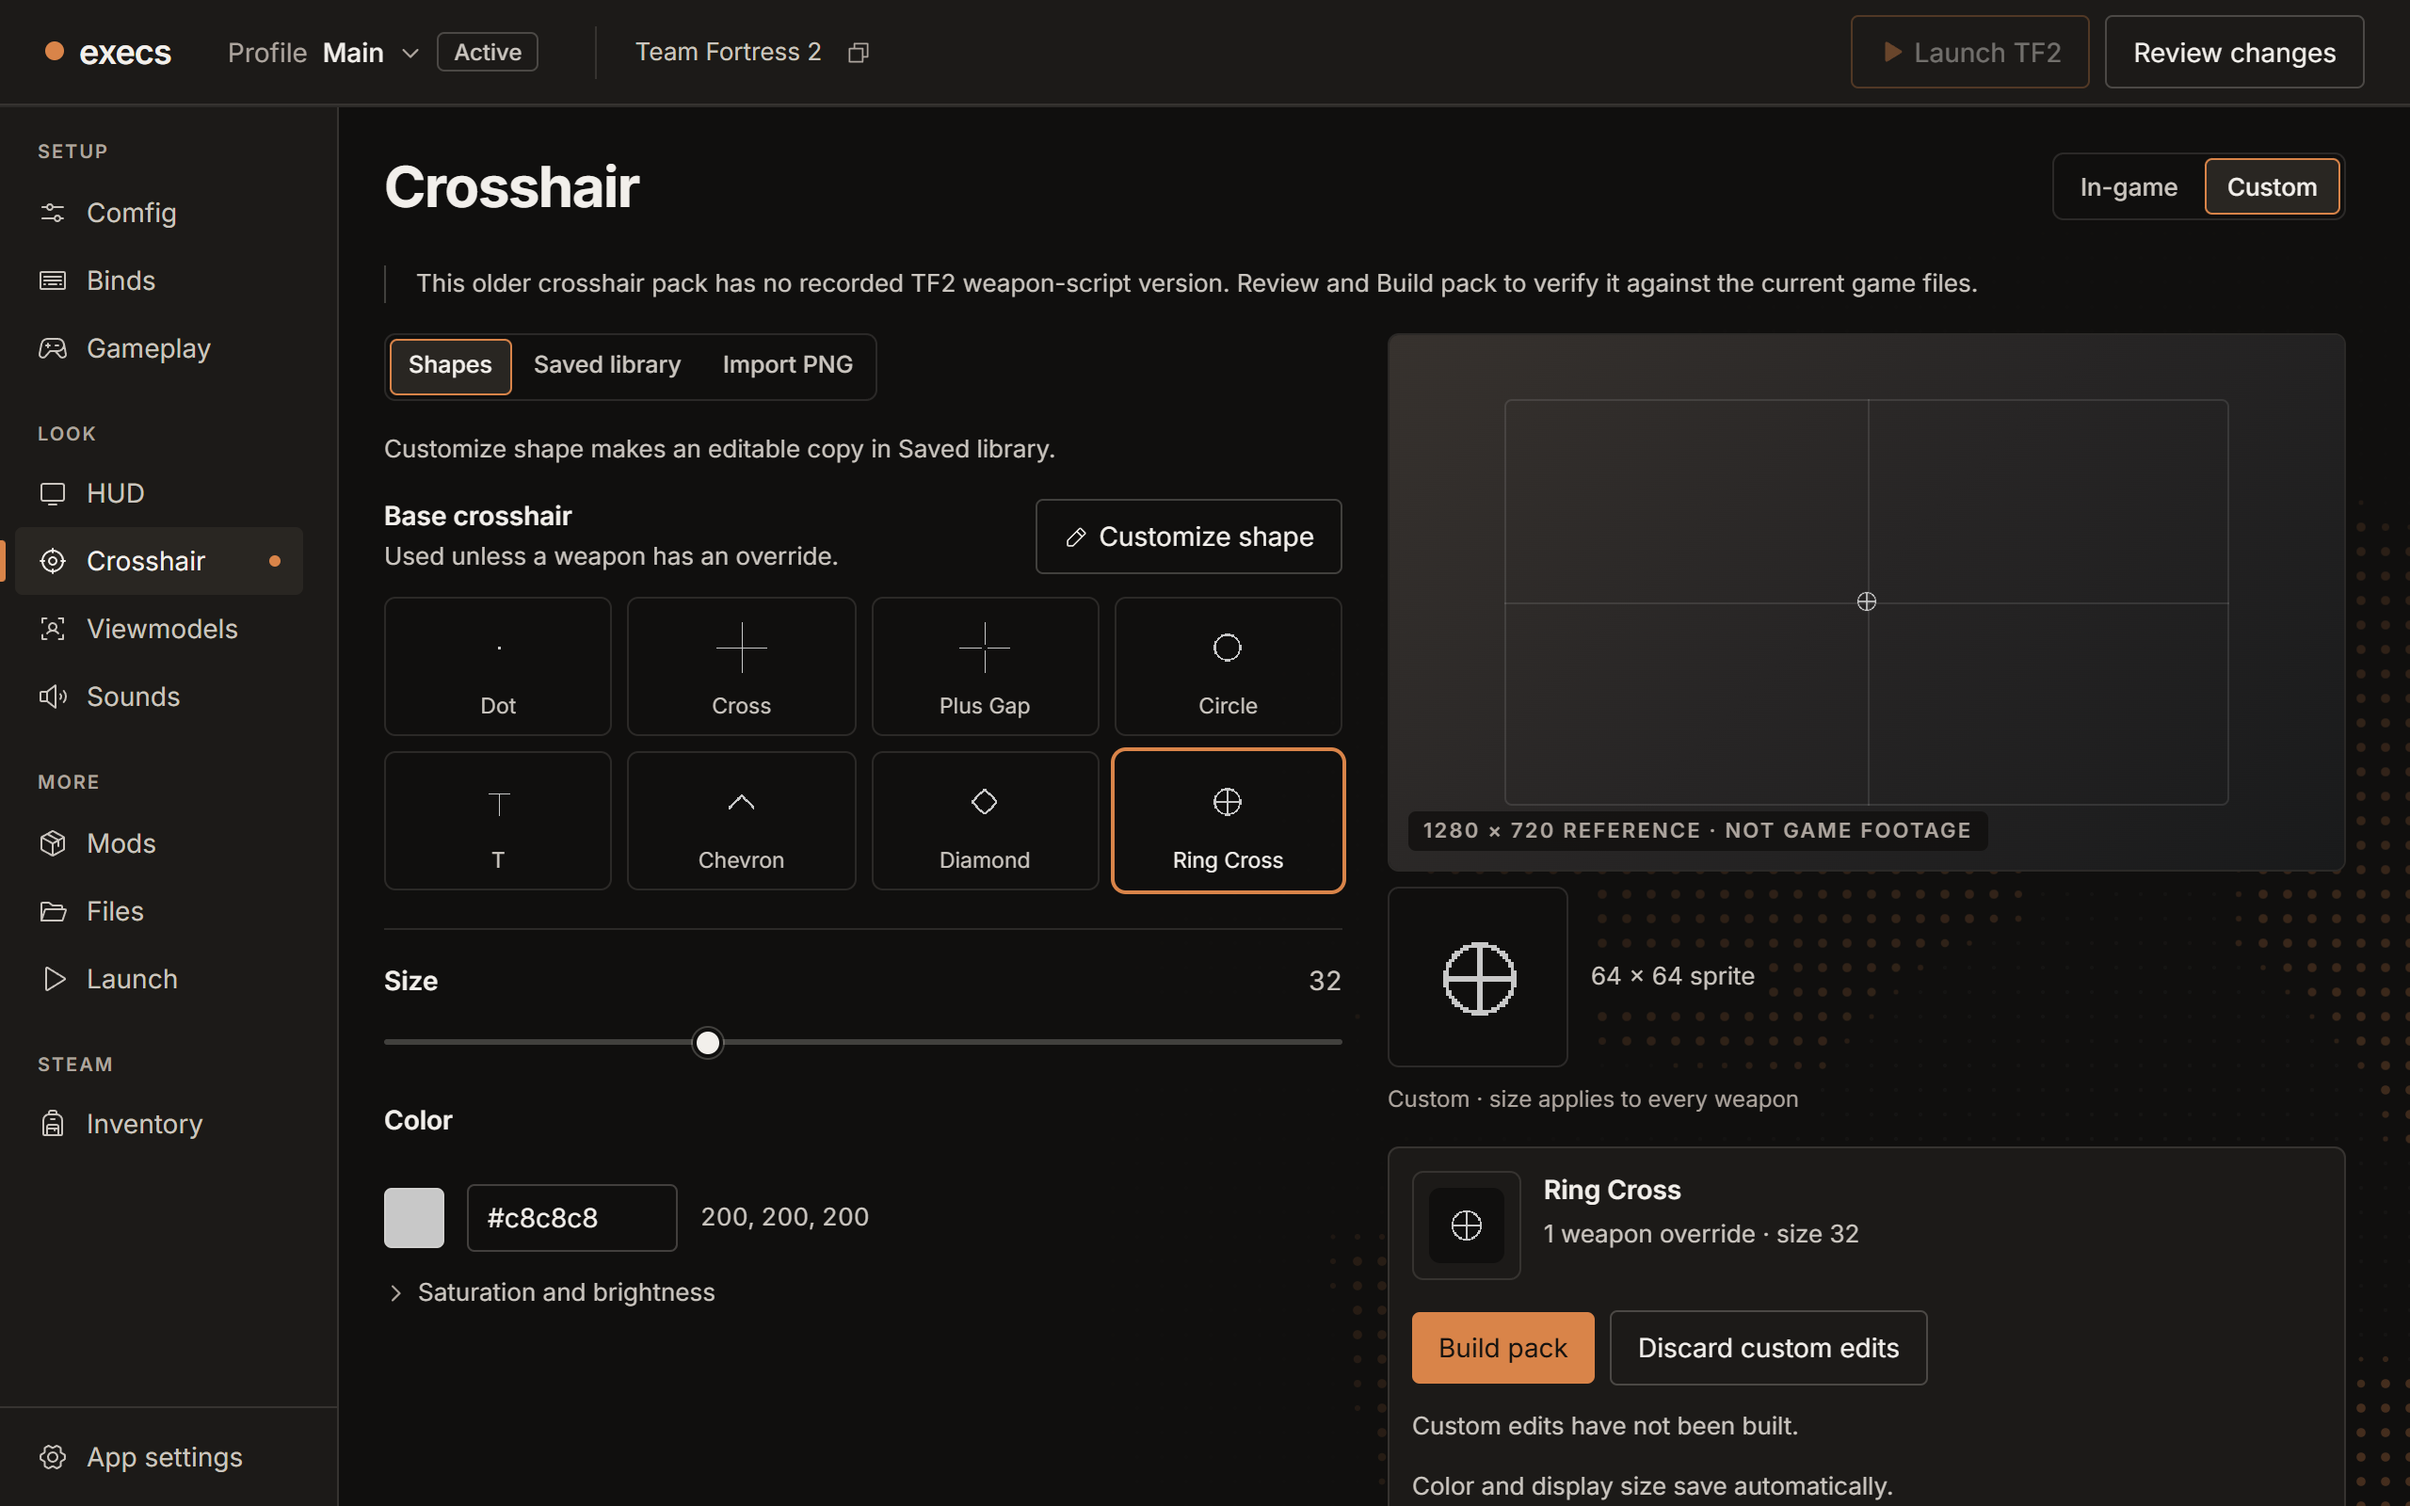
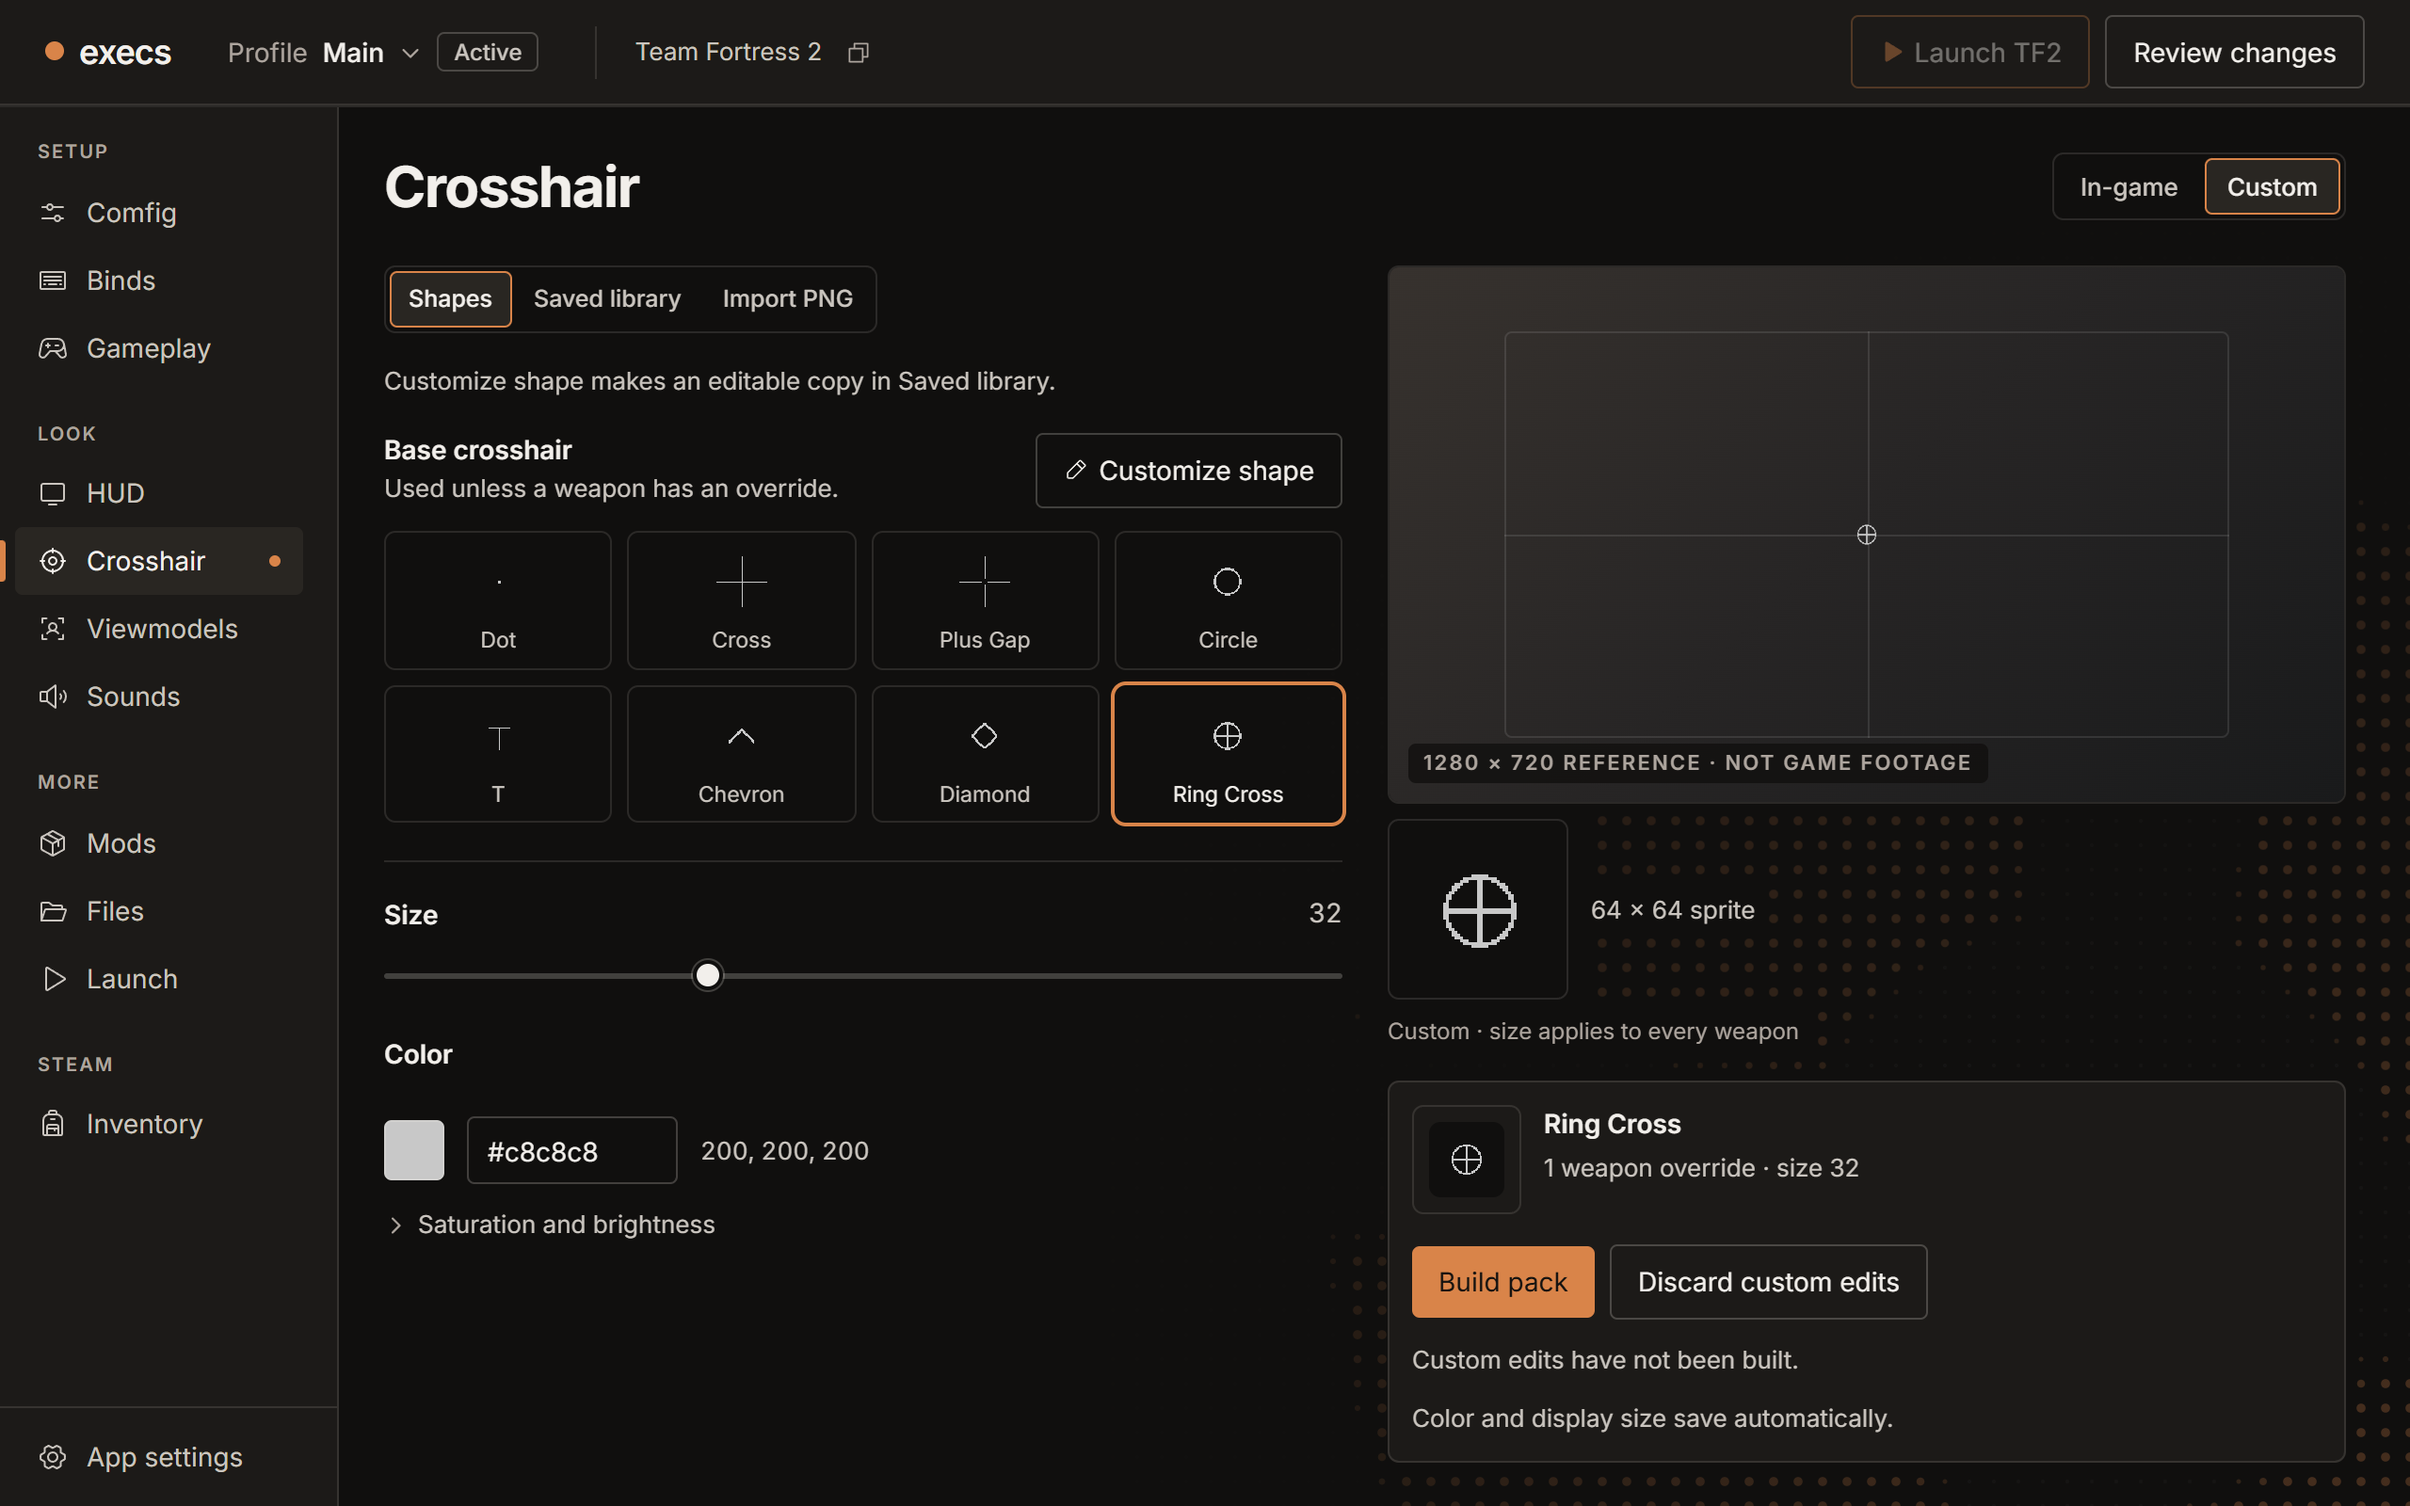
Promo: no legacy-pack notice in Crosshair, key caps end at cuts
The sample crosshair pack reads as current in captures, so Crosshair shows the normal state in the video and README screenshot; the video's Crosshair framing follows the shifted layout. Key presses end at the next cut like change pops. The README GIF is re-rendered.

diff --git a/tools/promo/src/Promo.tsx b/tools/promo/src/Promo.tsx
@@ -495,8 +495,8 @@ const CAMERA: CameraKey[] = [
   { at: on("comfig"), rect: { x: 220, y: 110, width: 1180, height: 470 }, cut: true },
   { at: on("clickHigh") + 6, rect: { x: 380, y: 0, width: 1060, height: 330 }, length: 16 },
   { at: on("binds"), rect: { x: 700, y: 395, width: 600, height: 230 }, cut: true },
-  // Shapes and the large sprite preview, below the pack notice line.
-  { at: on("crosshair"), rect: { x: 240, y: 278, width: 780, height: 380 }, cut: true },
+  // The shape tabs and grid, the sprite and the size and colour below them.
+  { at: on("crosshair"), rect: { x: 240, y: 180, width: 800, height: 520 }, cut: true },
   { at: on("viewmodels"), rect: { x: 236, y: 290, width: 720, height: 330 }, cut: true },
   { at: at(10, 1), rect: { x: 700, y: 330, width: 700, height: 300 }, length: 12 },
   // The library: its heading, the source filter and the first rows.

diff --git a/tools/promo/capture/vite.config.ts b/tools/promo/capture/vite.config.ts
@@ -52,6 +52,12 @@ const EDITS: Record<string, [string, string][]> = {
     // Steam already has the profile's launch options, the usual state, so the
     // header carries no sample-data warning.
     ['const steamOptions = "-novid";', "const steamOptions = launchOptions;"],
+    // The sample crosshair pack was built by this version, so Crosshair shows
+    // no legacy-pack notice.
+    [
+      'state: crosshair ? ("unverified" as const) : ("none" as const)',
+      'state: crosshair ? ("current" as const) : ("none" as const)',
+    ],
     // Sounds starts from TF2's default hit sound, not a retired catalog sound
     // with its legacy notice.
     [

diff --git a/tools/promo/src/Stage.tsx b/tools/promo/src/Stage.tsx
@@ -418,7 +418,12 @@ export function Stage({
       ) : null}
 
       {keys
-        .filter((key) => frame >= key.at && frame < key.at + 26)
+        .filter((key) => {
+          // Like pops, a key press belongs to its shot and ends at the next cut.
+          const cut =
+            camera.find((entry) => entry.cut && entry.at > key.at)?.at ?? Number.POSITIVE_INFINITY;
+          return frame >= key.at && frame < Math.min(key.at + 26, cut);
+        })
         .map((key) => {
           const fade = 1 - ramp(frame, key.at + 18, 8);
           return (
